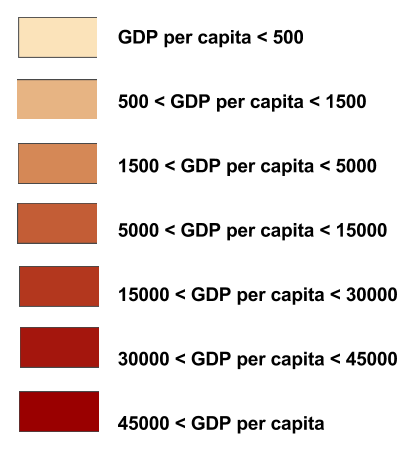
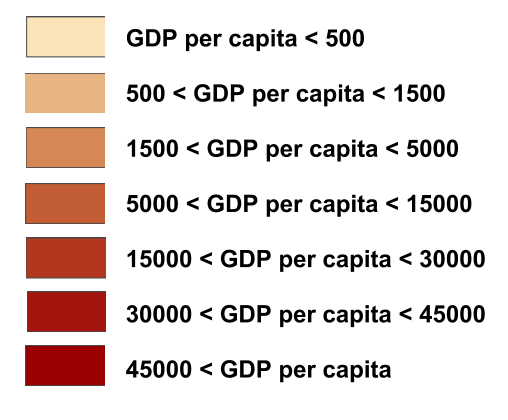
events are functional

Changed region(s): [[0.029, 0.4333, 0.9565, 0.9595], [0.029, 0.031, 0.9275, 0.4024]]

diff --git a/index.html b/index.html
@@ -22,7 +22,7 @@
             <div id="top-left">
                 <div id="slider">
                     <span class="text">Display visualization for year:</span>
-                    <input id="year" onchange="renderMap()" type="range" value="1995" min="1995" max="2010" step="1" data-intro='Scroll over the years to see more information' data-step='2'/>
+                    <input id="year" onchange="renderMap('normal',null)" type="range" value="1995" min="1995" max="2010" step="1" data-intro='Scroll over the years to see more information' data-step='2'/>
                     <span id="year-display"></span>
                 </div>
                 <div class="visualization-title" id="map-title">Global GDP per capita and Unemployment Data</div>
@@ -37,12 +37,14 @@
                 <div id="events">
                     <div class="visualization-title">Worldwide Events</div><br><br>
                     <form id="select-event">
-                        <input type="radio" name="event" value="1">GDP per capita<br>
-                        <input type="radio" name="event" value="2">Unemployment Rate<br>
-                        <input type="radio" name="event" value="3">Unemployment Rate<br>
-                        <input type="radio" name="event" value="4">Unemployment Rate<br>
-                        <input type="radio" name="event" value="5">Unemployment Rate<br>
+                        <input type="radio" name="event" value="1998event">1998: Aftermath of the Asian Tiger Crisis<br>
+                        <input type="radio" name="event" value="2000event">2000: Y2K<br>
+                        <input type="radio" name="event" value="2001event">2001: Dot-com Bubble<br>
+                        <input type="radio" name="event" value="2002event">2002: 9/11 Aftermath<br>
+                        <input type="radio" name="event" value="2009event">2009: Global Financial Crisis Unraveling<br>
                     </form>
+                    <br>
+                    <button onclick="eventClear()">Clear</button>
                 </div>
             </div>
         </div>
@@ -3004,7 +3006,7 @@ ZIMBABWE,2010,591,,,,,,,,,,ZWE,,2010 ZWE,0,0,0,0,0,
         <script src="js/events.js"></script>
         <script> 
             introJs().start();
-            renderMap();
+            renderMap("normal", null);
             graph("USA", "gdp");
         </script> 
     </body>

diff --git a/js/data.js b/js/data.js
@@ -23,8 +23,8 @@ for (var i = 0; i < numCountries; i++)
     data[i] = new Array();
     data[i]["country"] = lines[i*numYears+1][0];
     data[i]["code"] = lines[i*numYears+1][12];
-    data[i]["gdp"] = lines[i*numYears+1][2];
-    data[i]["unemployment"] = lines[i*numYears+1][3];
+    //data[i]["gdp"] = lines[i*numYears+1][2];
+    //data[i]["unemployment"] = lines[i*numYears+1][3];
 
     for (var year = 0; year < numYears; year++)
     {
@@ -91,3 +91,66 @@ function generateOutput(selectedYear)
 	}
 	return output;
 }
+
+
+function generateFilteredOutput(selectedYear, event)
+{
+	var output = new Array();
+	for (var i = 0; i < data.length; i++)
+	{
+		year = eventYears[event];
+		if (data[i][year][event] == "0")
+		{
+			continue;
+		}
+		else 
+		{
+		    var country = data[i]["code"];
+		    output[country] = new Array();
+		    var gdp = data[i][selectedYear]["gdp"];
+
+		    if (gdp < 500)
+		    {
+		        output[country].fillKey = "one";    
+		    }
+		    else if (gdp >= 500 && gdp < 1500)
+		    {
+		        output[country].fillKey = "two";
+		    }
+		    else if (gdp >= 1500 && gdp < 5000)
+		    {
+		        output[country].fillKey = "three";
+		    }
+		    else if (gdp >= 5000 && gdp < 15000)
+		    {
+		        output[country].fillKey = "four";
+		    }
+		   	else if (gdp >= 15000 && gdp < 30000)
+		    {
+		        output[country].fillKey = "five";
+		    }
+		   	else if (gdp >= 30000 && gdp < 45000)
+		    {
+		        output[country].fillKey = "six";
+		    }
+		    else if (gdp >= 45000)
+		    {
+		        output[country].fillKey = "seven";
+		    }
+		    else 
+		    {
+		        output[country].fillKey = "defaultFill";
+		    }
+		    
+		    output[country]["gdp"] = parseFloat(gdp);
+		    output[country]["name"] = data[i]["country"];
+		    output[country]["unemployment"] = parseFloat(data[i][selectedYear]["unemployment"]);
+		    output[country]["population"] = parseFloat(data[i][selectedYear]["population"]);
+		    output[country]["hoverevent"] = data[i][selectedYear]["hoverevent"];
+		}
+	}
+	return output;
+}
+
+
+

diff --git a/js/graph.js b/js/graph.js
@@ -62,26 +62,26 @@ function graph(country)
 
   // render graph
   var margin = {top: 20, right: 20, bottom: 20, left: 80},
-      width = 800 - margin.left - margin.right,
-      height = 400 - margin.top - margin.bottom;
+    width = 800 - margin.left - margin.right,
+    height = 400 - margin.top - margin.bottom;
 
   var x = d3.time.scale()
-      .range([0, width]);
+    .range([0, width]);
 
   var y = d3.scale.linear()
-      .range([height, 0]);
+    .range([height, 0]);
 
   var xAxis = d3.svg.axis()
-      .scale(x)
-      .orient("bottom");
+    .scale(x)
+    .orient("bottom");
 
   var yAxis = d3.svg.axis()
-      .scale(y)
-      .orient("left");
+    .scale(y)
+    .orient("left");
 
   var line = d3.svg.line()
-      .x(function(d) { return x(d["year"]); })
-      .y(function(d) { return y(d[filter]); });
+    .x(function(d) { return x(d["year"]); })
+    .y(function(d) { return y(d[filter]); });
 
   var svg = d3.select("#graph-child").append("svg")
       .attr("width", width + margin.left + margin.right)
@@ -93,10 +93,10 @@ function graph(country)
     y.domain(d3.extent(points, function(d) { return d[filter]; }));
 
     svg.append("g")
-        .attr("class", "axis")
-        .attr("stroke-width", 1)
-        .attr("transform", "translate(0," + height + ")")
-        .call(xAxis);
+      .attr("class", "axis")
+      .attr("stroke-width", 1)
+      .attr("transform", "translate(0," + height + ")")
+      .call(xAxis);
 
     svg.append("g")
         .attr("class", "axis")
@@ -110,9 +110,9 @@ function graph(country)
         .text(graphLabels[filter]);
 
     svg.append("path")
-        .datum(points)
-        .attr("class", "line")
-        .attr("d", line);
+      .datum(points)
+      .attr("class", "line")
+      .attr("d", line);
 
     svg.selectAll("circle")
       .data(points)
@@ -125,9 +125,14 @@ function graph(country)
 
 }
 
+function drawLine()
+{
+  
+}
+
 function displayEvent(year)
 {
-  $("#event").html("Some event happened on " + year);
+  return;
 }
 
 

diff --git a/js/events.js b/js/events.js
@@ -7,18 +7,32 @@
 * changes map and graph based on event
 **************************************************************/
 
+var eventYears = {"1998event": 1998, "2000event": 2000, "2001event": 2001, "2002event": 2002, "2009event": 2009};
 $('#select-event').change(function() { eventChange(); });
+var radios = document.getElementsByName('event');
 
 function eventChange()
 {
-
 	// get event(s) selected
-	var radios = document.getElementsByName('event');
 	for (var i = 0, length = radios.length; i < length; i++) 
 	{
 		if (radios[i].checked) 
 	    {
-	      var filter = radios[i].value.toString();
+	      var event = radios[i].value.toString();
+	      renderMap("filtered", event);
 	    }
 	}
+	document.getElementById('year').value = eventYears[event];
+	document.getElementById('year-display').innerHTML = eventYears[event];
+}
+
+function eventClear()
+{
+	renderMap("normal", null);
+	for (var i = 0; i < radios.length; i++) 
+	{
+		radios[i].checked = false;
+	}
+	document.getElementById('year').value = 1995;
+	document.getElementById('year-display').innerHTML = 1995;
 }

diff --git a/js/map.js b/js/map.js
@@ -15,7 +15,7 @@ var currentCountry = "USA";
 * renderMap()
 * renders map from data
 ************************/
-function renderMap()
+function renderMap(state, event)
 {  
   // create element to hold map
   child = document.getElementById('child');
@@ -33,6 +33,17 @@ function renderMap()
   document.getElementById('map-title').innerHTML = 'Global GDP per capita and Unemployment Data: ' + year;
   document.getElementById('legend-map').style.visibility = 'visible';
   
+  var processedData;
+  // populate data
+  if (state == "normal")
+  {
+    processedData = generateOutput(year);
+  }
+  else if (state == "filtered")
+  {
+    processedData = generateFilteredOutput(year, event);
+  }
+
   //render map
   var map = $('#child').datamap(
   {
@@ -58,8 +69,8 @@ function renderMap()
       defaultFill: '#515151'
     },
 
-    data: generateOutput(year),
-    });
+    data: processedData,
+  });
 
 
   map.$el.bind("map-click", function(e, data) {

diff --git a/css/style.css b/css/style.css
@@ -38,20 +38,13 @@ body
 
 #map
 {
-	width: 850px;
+	width: 800px;
 	height: 400px;
 }
 
 #legend-map
 {
-	width: 150px;
-	float: right;
-	visibility: hidden;
-}
-
-#legend-graph
-{
-	width: 100px;
+	width: 200px;
 	float: right;
 	visibility: hidden;
 }
